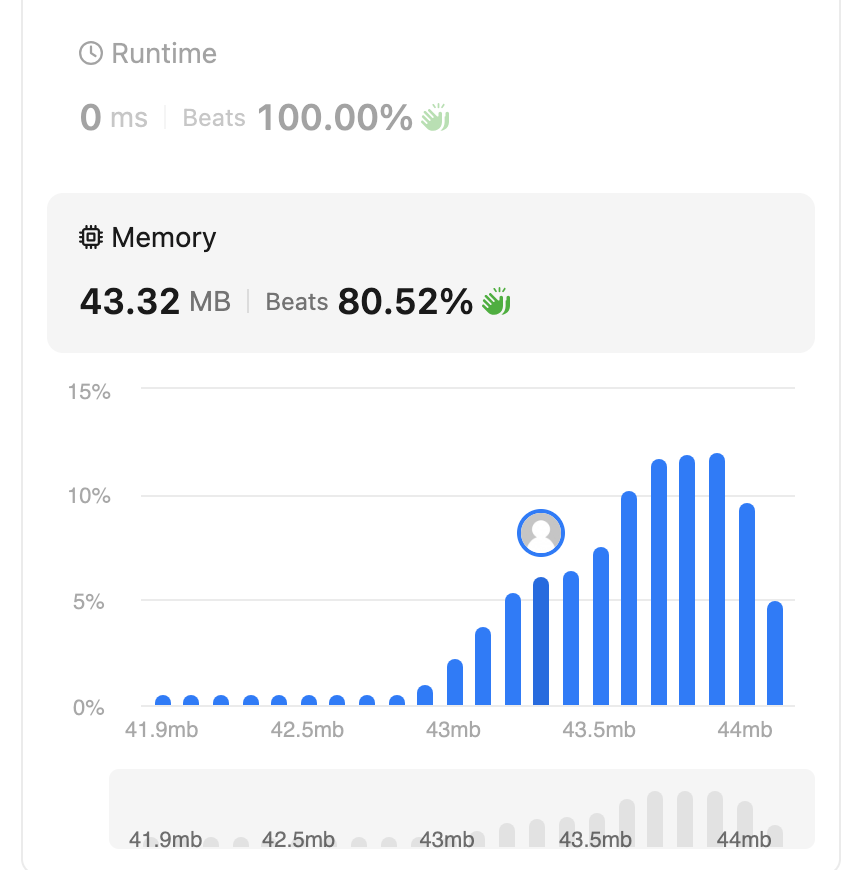
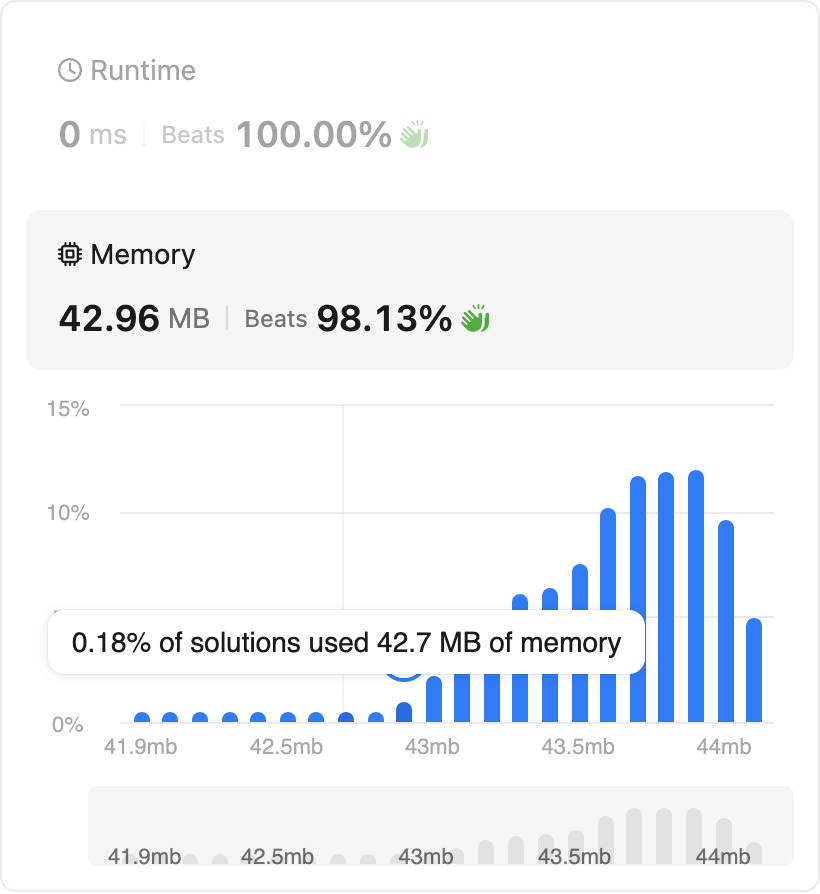
feat(88): optimize the solution

diff --git a/Java/easy/088_merge_sorted_array/MergeSortedArray.java b/Java/easy/088_merge_sorted_array/MergeSortedArray.java
@@ -6,9 +6,9 @@ public class MergeSortedArray {
 		int	j = n - 1;
 		int	all = m + n - 1;
 
-		while ( i >= 0 && j >= 0 && all >= 0 ) {
+		while ( j >= 0 && all >= 0 ) {
 
-			if ( nums1[i] > nums2[j] ) {
+			if ( i >= 0 && nums1[i] > nums2[j] ) {
 				nums1[all] = nums1[i];
 				i--;
 			}
@@ -20,10 +20,5 @@ public class MergeSortedArray {
 
 		}
 
-		while ( j >= 0 && all >= 0 ) {
-				nums1[all] = nums2[j];
-				all--;
-				j--;
-		}
 	}
 }
